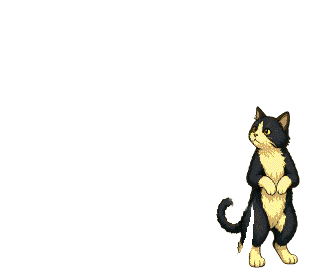
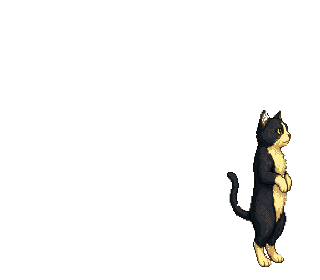
Restore full cat frames; keep lightbox scanline hide.
The locked tail rotation split the animal again. Scroll goes
back to complete drawings. Screenshot modals stay phosphor-free.

Changed region(s): [[0.6562, 0.3714, 0.9375, 0.9714]]

diff --git a/components/hero-section.tsx b/components/hero-section.tsx
@@ -4,8 +4,8 @@ import { HeroCtas } from "@/components/hero-ctas";
 
 const HERO_ART = [
   { era: "1980s", still: "/hero/hero-1980s.svg?v=px2", live: "/hero/hero-1980s-live.png?v=px2", cat: "/hero/hero-1980s-cat.svg?v=px2", width: 340, height: 268 },
-  { era: "1990s", still: "/hero/hero-1990s.svg?v=bit16", live: "/hero/hero-1990s-live.png?v=era1", cat: "/hero/hero-1990s-cat.svg?v=lock2", catLive: "/hero/hero-1990s-cat-live.png?v=lock2", catFrames: 4, width: 320, height: 280 },
-  { era: "modern", still: "/hero/hero-modern-d.svg?v=hands3", live: "/hero/hero-modern-d-live.png?v=kneel0906", cat: "/hero/hero-modern-d-cat.svg?v=lock2", catLive: "/hero/hero-modern-d-cat-live.png?v=lock2", catFrames: 4, width: 600, height: 560 },
+  { era: "1990s", still: "/hero/hero-1990s.svg?v=bit16", live: "/hero/hero-1990s-live.png?v=era1", cat: "/hero/hero-1990s-cat.svg?v=full2", catLive: "/hero/hero-1990s-cat-live.png?v=full2", catFrames: 4, width: 320, height: 280 },
+  { era: "modern", still: "/hero/hero-modern-d.svg?v=hands3", live: "/hero/hero-modern-d-live.png?v=kneel0906", cat: "/hero/hero-modern-d-cat.svg?v=full2", catLive: "/hero/hero-modern-d-cat-live.png?v=full2", catFrames: 4, width: 600, height: 560 },
 ] as const;
 
 export function HeroSection() {

diff --git a/app/styles/hero-era-art.css b/app/styles/hero-era-art.css
@@ -1,5 +1,5 @@
 /* Overrides so new era plates win without rewriting hero-plates.css. */
-/* Cache: locked-body tail wag v=lock2 */
+/* Cache: full-cat frames only, no tail fragments v=full2 */
 
 :root[data-era="1980s"] .hero-backdrop-photo {
   background-image: none !important;
@@ -142,7 +142,7 @@
 :root[data-era="1990s"] .hero-art-1990s.is-live .hero-art-cat-live img,
 :root[data-era="1990s"] .hero-section.is-live .hero-art-1990s .hero-art-cat-live img,
 :root[data-era="1990s"][data-scroll-live] .hero-art-1990s .hero-art-cat-live img {
-  animation: cat-sheet-4 0.88s steps(4, jump-none) infinite;
+  animation: cat-sheet-4 0.56s steps(4, jump-none) infinite;
 }
 
 :root[data-era="modern"] .hero-art-modern.is-live .hero-art-cat-live img,
